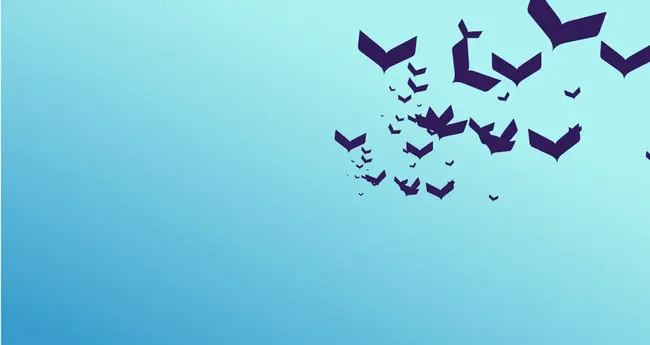
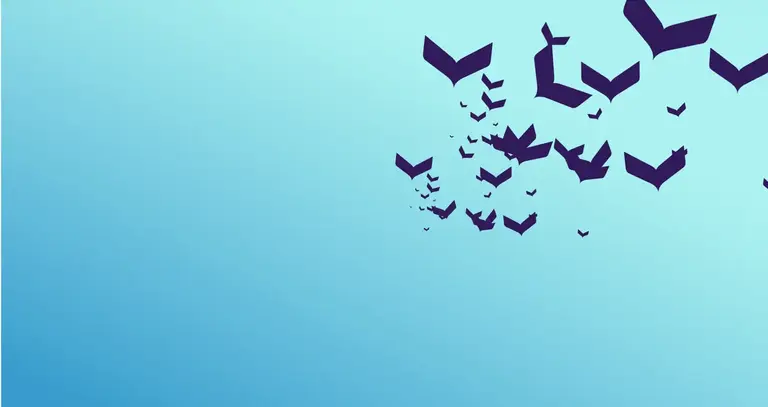
perf

diff --git a/empowering-your-business-with-smarter-ai-solutions/index.html b/empowering-your-business-with-smarter-ai-solutions/index.html
@@ -87,6 +87,18 @@
       background-color: #3cf;
     }
 
+    #masthead {
+      background: url('../assets/flockrush-masthead-blue-image.webp') no-repeat center center;
+      background-size: cover;
+    }
+
+    @media (max-width: 768px) {
+      #masthead {
+        background: url('../assets/flockrush-masthead-blue-image-mobile.webp') no-repeat center center;
+        background-size: cover;
+      }
+    }
+
     .ui.grid {
       display: -webkit-box;
       display: -ms-flexbox;
@@ -1235,8 +1247,7 @@
       <article id="path-main-content" class="main-content">
         <div class="a-slide sections">
           <div class="section-header section-0 ">
-            <div class="ui segment basic padding-left-0"
-              style=" background-repeat:no-repeat;background-size:100%;background-image:url(../assets/flockrush-masthead-blue-image.webp);">
+            <div class="ui segment basic padding-left-0" id="masthead">
               <div class="ui text container" style="margin-left:0!important;padding-top:30%;">
                 <div class="ui left aligned grid container" style="margin-left:0!important;background-color:#fff;">
                   <div class="right aligned row padding-top-bottom-0">
@@ -1450,7 +1461,8 @@
                 </div>
                 <div class="navigation-contact-seperator"> </div>
                 <div class="navigation-contact-email">
-                  <div class="img-wrapper-contact"> <img src="../assets/flockrush-email-icon-red.webp" alt="Email icon">
+                  <div class="img-wrapper-contact">
+                    <img src="../assets/flockrush-email-icon-red.webp" alt="Email icon">
                   </div><a href="mailto:hello@flockrush.com">hello@flockrush.com</a>
                 </div>
               </div>
@@ -1579,8 +1591,8 @@
             </div>
             <div class="navigation-contact-seperator"> </div>
             <div class="navigation-contact-email">
-              <div class="img-wrapper-contact"> <img src="../assets/flockrush-email-icon-red.webp"> </div><a
-                href="mailto:hello@flockrush.com">hello@flockrush.com</a>
+              <div class="img-wrapper-contact"> <img src="../assets/flockrush-email-icon-red.webp" alt="Email icon">
+              </div><a href="mailto:hello@flockrush.com">hello@flockrush.com</a>
             </div>
           </div>
           <div class="form">

diff --git a/lets-talk/index.html b/lets-talk/index.html
@@ -1516,7 +1516,7 @@
                         <div class="navigation-contact-email">
 
                             <div class="img-wrapper-contact">
-                                <img src="../assets/flockrush-email-icon-red.webp">
+                                <img src="../assets/flockrush-email-icon-red.webp" alt="Email icon">
                             </div><a href="mailto:hello@flockrush.com">hello@flockrush.com</a>
                         </div>
                     </div>

diff --git a/thank-you-for-newsletter-signup/index.html b/thank-you-for-newsletter-signup/index.html
@@ -1547,7 +1547,7 @@
                         <div class="navigation-contact-email">
 
                             <div class="img-wrapper-contact">
-                                <img src="../assets/flockrush-email-icon-red.webp">
+                                <img src="../assets/flockrush-email-icon-red.webp" alt="Email icon">
                             </div><a href="mailto:hello@flockrush.com">hello@flockrush.com</a>
                         </div>
                     </div>

diff --git a/AI-Twins-ALIA/index.html b/AI-Twins-ALIA/index.html
@@ -1550,7 +1550,7 @@
             <div class="navigation-contact-email">
 
               <div class="img-wrapper-contact">
-                <img src="../assets/flockrush-email-icon-red.webp">
+                <img src="../assets/flockrush-email-icon-red.webp" alt="Email icon">
               </div><a href="mailto:hello@flockrush.com">hello@flockrush.com</a>
             </div>
           </div>

diff --git a/about/index.html b/about/index.html
@@ -1542,7 +1542,7 @@
             <div class="navigation-contact-email">
 
               <div class="img-wrapper-contact">
-                <img src="../assets/flockrush-email-icon-red.webp">
+                <img src="../assets/flockrush-email-icon-red.webp" alt="Email icon">
               </div><a href="mailto:hello@flockrush.com">hello@flockrush.com</a>
             </div>
           </div>

diff --git a/ai-implications-for-business-strategy/index.html b/ai-implications-for-business-strategy/index.html
@@ -1561,7 +1561,7 @@
             <div class="navigation-contact-email">
 
               <div class="img-wrapper-contact">
-                <img src="../assets/flockrush-email-icon-red.webp">
+                <img src="../assets/flockrush-email-icon-red.webp" alt="Email icon">
               </div><a href="mailto:hello@flockrush.com">hello@flockrush.com</a>
             </div>
           </div>

diff --git a/privacy-policy/index.html b/privacy-policy/index.html
@@ -1666,7 +1666,7 @@
             <div class="navigation-contact-email">
 
               <div class="img-wrapper-contact">
-                <img src="../assets/flockrush-email-icon-red.webp">
+                <img src="../assets/flockrush-email-icon-red.webp" alt="Email icon">
               </div><a href="mailto:hello@flockrush.com">hello@flockrush.com</a>
             </div>
           </div>

diff --git a/the-future-of-enterprise-ai/index.html b/the-future-of-enterprise-ai/index.html
@@ -1593,7 +1593,7 @@
             <div class="navigation-contact-email">
 
               <div class="img-wrapper-contact">
-                <img src="../assets/flockrush-email-icon-red.webp">
+                <img src="../assets/flockrush-email-icon-red.webp" alt="Email icon">
               </div><a href="mailto:hello@flockrush.com">hello@flockrush.com</a>
             </div>
           </div>

diff --git a/why-choose-flockrush/index.html b/why-choose-flockrush/index.html
@@ -1555,7 +1555,7 @@
             <div class="navigation-contact-email">
 
               <div class="img-wrapper-contact">
-                <img src="../assets/flockrush-email-icon-red.webp">
+                <img src="../assets/flockrush-email-icon-red.webp" alt="Email icon">
               </div><a href="mailto:hello@flockrush.com">hello@flockrush.com</a>
             </div>
           </div>
